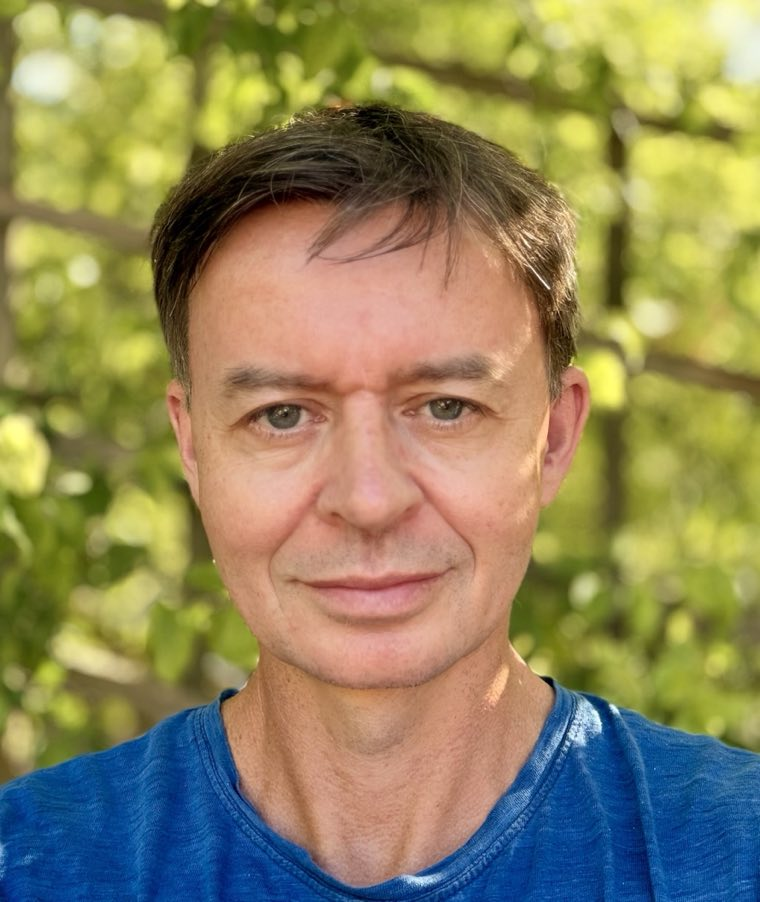
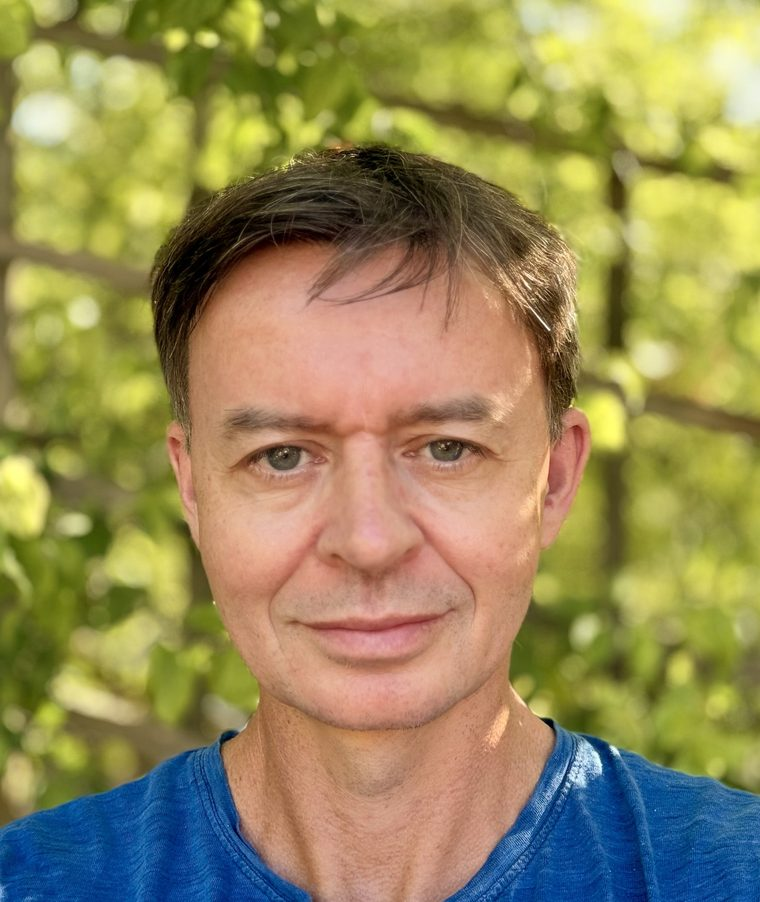
design(landing): the refreshed Shoots page, with its integrations put back
Paul's export of 22 August. The substance is the problem section: the four card
titles are tightened ("Hours lost before you find out you don't qualify" becomes
"Hours lost to dead ends", and so on), the fourth card's body now names
accelerator programmes and competitions rather than foundation grants, and the
section takes the sage background. A Blog nav item is added.

The export is a design-tool output, so it had dropped every integration and
every SEO fix that was applied on the way in last time. Restored rather than
shipped as-is:

- `<meta name="robots" content="noindex, nofollow">` was back. That alone would
  have delisted the site.
- canonical, og:url, og:image and twitter:image all pointed at
  shootsfunding.COM, which we do not own. A canonical naming someone else's
  domain tells Google the real page is elsewhere.
- 1.76 MB of inline base64 images, re-embedded. Extracted again: thirteen of the
  fourteen are byte-identical to files already in public/landing/, so they now
  reference those. The fourteenth is the founder photo, re-exported at slightly
  different compression, written over the existing filename. 1.9 MB down to
  78 KB.
- All three Sign in links had become href="#". Back to /auth/login.
- The waitlist form had become a Netlify form posting nowhere, with the consent
  copy, the privacy link and the status line deleted, and no submit script. The
  route treats the submission timestamp as the consent record, so that copy is
[…]

diff --git a/public/landing/index.html b/public/landing/index.html
@@ -315,6 +315,10 @@
   .cd-value:hover{text-decoration:underline;}
   .cd-sub{font-size:15px;color:#5f6b64;margin:0;}
   .contact-form{display:flex;flex-direction:column;gap:18px;}
+  /* The fields sit inside a real <form> so they can be submitted. That form is
+     the only flex child of .contact-form, so it has to carry the column layout
+     itself or the 18px gap between fields collapses. */
+  #ct-form{display:flex;flex-direction:column;gap:18px;}
   .contact-form label{font-family:'Space Grotesk',sans-serif;font-weight:500;font-size:15px;color:var(--deep);display:flex;flex-direction:column;gap:8px;}
   .contact-form input,.contact-form textarea{font-family:'Plus Jakarta Sans',sans-serif;font-size:15px;color:var(--deep);background:#fff;border:1px solid rgba(29,60,62,0.14);border-radius:12px;padding:14px 16px;width:100%;box-sizing:border-box;resize:vertical;}
   .contact-form input::placeholder,.contact-form textarea::placeholder{color:#9aa5a0;}
@@ -472,8 +476,8 @@
     <div class="wrap">
       <nav>
         <a class="brand" href="#top"><svg class="brand-svg" viewBox="0 0 24 24" fill="none" stroke-width="1.75" stroke-linecap="round" stroke-linejoin="round" aria-hidden="true"><path d="M12 10a6 6 0 0 0 -6 -6h-3v2a6 6 0 0 0 6 6h3" stroke="#1D3C3E"/><path d="M12 14a6 6 0 0 1 6 -6h3v1a6 6 0 0 1 -6 6h-3" stroke="#1D3C3E"/><path d="M12 20l0 -10" stroke="#1D3C3E"/></svg><span class="logo">shoots</span></a>
-        <div class="nav-center"><a href="#how">How it works</a><a href="#funding">Funding mix</a><a href="#pricing">Pricing</a><a href="#about" class="nav-opt">About</a><a href="#faq">FAQ</a></div>
-        <div class="nav-right"><a href="/auth/login" class="nav-signin" style="font-weight:600;">Sign in</a><a class="btn btn-primary nav-btn" href="#waitlist">Join the waitlist</a><button class="nav-toggle" id="navToggle" aria-expanded="false" aria-controls="mobileMenu" aria-label="Open menu"><i class="ti ti-menu-2" aria-hidden="true"></i></button></div>
+        <div class="nav-center"><a href="#how">How it works</a><a href="#funding">Funding mix</a><a href="#pricing">Pricing</a><a href="#about" class="nav-opt">About</a><a href="#faq">FAQ</a><a href="blog.html">Blog</a></div>
+        <div class="nav-right"><a href="/auth/login" class="nav-signin" style="font-weight:600;">Sign in</a><a class="btn btn-primary nav-btn" href="#pricing">Join the waitlist</a><button class="nav-toggle" id="navToggle" aria-expanded="false" aria-controls="mobileMenu" aria-label="Open menu"><i class="ti ti-menu-2" aria-hidden="true"></i></button></div>
       </nav>
       <div class="mobile-menu" id="mobileMenu" hidden>
         <a href="#how">How it works</a>
@@ -481,6 +485,7 @@
         <a href="#pricing">Pricing</a>
         <a href="#about">About</a>
         <a href="#faq">FAQ</a>
+        <a href="blog.html">Blog</a>
         <a href="#contact">Contact</a>
         <a href="/auth/login" class="mm-signin">Sign in</a>
       </div>
@@ -501,7 +506,7 @@
             <span><i class="ti ti-users-group" aria-hidden="true"></i>Built with UK charities, CICs and social enterprises</span>
           </p>
           <div class="hero-cta">
-            <a href="#waitlist" class="btn btn-primary">Join the waitlist</a>
+            <a href="#pricing" class="btn btn-primary">Join the waitlist</a>
             <a href="#how" class="hero-cta-link">See how it works <span class="arw" aria-hidden="true">&rarr;</span></a>
           </div>
           <p class="hero-reassure">Tell us about your organisation and see what fits, in about three minutes.</p>
@@ -568,23 +573,23 @@
       <div class="prob-grid">
         <div class="prob">
           <span class="prob-ic" style="background:rgba(214,117,88,0.14);"><i class="ti ti-hourglass-empty" style="color:var(--terra);"></i></span>
-          <h3>Hours lost before you find out you don&rsquo;t qualify</h3>
+          <h3>Hours lost to dead ends</h3>
           <p>You find a fund that fits, start shaping a bid, then discover your structure ruled you out from the start.</p>
         </div>
         <div class="prob">
           <span class="prob-ic" style="background:rgba(78,170,180,0.16);"><i class="ti ti-layout-grid-remove" style="color:#2f7d86;"></i></span>
-          <h3>Then you lose track of what you found</h3>
+          <h3>Then you lose track</h3>
           <p>The search ends in a spreadsheet, and the spreadsheet goes stale. Deadlines pass unnoticed, half-written applications drift, and nobody can say what is actually in progress.</p>
         </div>
         <div class="prob">
           <span class="prob-ic" style="background:rgba(235,206,120,0.28);"><i class="ti ti-building-bank" style="color:#BA7517;"></i></span>
-          <h3>Funding rarely fits one shape</h3>
+          <h3>Never shaped for you</h3>
           <p>Charities, CICs, social enterprises and community groups each face different eligibility, but most funding search flattens that, so you chase funds that were never open to you.</p>
         </div>
         <div class="prob turn">
           <span class="prob-ic"><i class="ti ti-bulb"></i></span>
-          <h3>The funding you didn&rsquo;t know to look for</h3>
-          <p>Grants aren&rsquo;t the whole picture. Social investment, foundation grants, fellowships and in-kind support rarely make it onto your radar.</p>
+          <h3>The funding you never see</h3>
+          <p>Grants aren&rsquo;t the whole picture. Social investment, accelerator programmes, competitions and in-kind support rarely make it onto your radar.</p>
         </div>
       </div>
     </div>
@@ -802,7 +807,7 @@
       <p class="eyb">Pricing for charities, CICs and community groups</p>
       <h2>Pricing coming soon</h2>
       <p class="lead" style="color:#5f6b64;max-width:56ch;">Simple plans priced for smaller organisations, whilst catering for bigger teams. Join the waitlist to see launch pricing first.</p>
-      <div class="waitlist-card" id="waitlist" style="background:var(--deep);border-radius:16px;padding:clamp(28px,4vw,44px);margin-top:28px;">
+      <div class="waitlist-card" style="background:var(--deep);border-radius:16px;padding:clamp(28px,4vw,44px);margin-top:28px;">
         <h3 style="color:var(--cream);margin:0 0 6px;">Join the waitlist</h3>
         <p style="color:rgba(246,241,231,.75);margin:0 0 18px;font-size:.95rem;">Be first in when we launch.</p>
         <form id="wl-form" method="POST" action="/api/waitlist" style="display:flex;gap:10px;flex-wrap:wrap;align-items:stretch;">
@@ -832,7 +837,7 @@
     <div class="wrap">
       <h2>Start with funding you can actually win.</h2>
       <p>Launching soon. Join the waitlist for first access.</p>
-      <a class="btn btn-primary" style="padding:16px 40px;font-size:17px;" href="#waitlist">Join the waitlist</a>
+      <a class="btn btn-primary" style="padding:16px 40px;font-size:17px;" href="#pricing">Join the waitlist</a>
     </div>
   </section>
 
@@ -854,9 +859,13 @@
           </div>
         </div>
         <div class="contact-form">
-          <p class="cd-label">Send an email</p>
-          <p class="cd-sub">Tell me what you need and I'll reply, usually within a couple of days.</p>
-          <a class="btn btn-primary contact-send" href="mailto:hello@shootsfunding.co.uk">hello@shootsfunding.co.uk</a>
+          <form id="ct-form" method="POST" action="/api/contact">
+            <label>Name<input id="ct-name" type="text" name="name" placeholder="Your name"></label>
+            <label>Email<input id="ct-email" type="email" name="email" required placeholder="you@organisation.org"></label>
+            <label>Message<textarea id="ct-message" rows="5" name="message" required placeholder="How can I help?"></textarea></label>
+            <button id="ct-submit" type="submit" class="btn btn-primary contact-send">Send message</button>
+          </form>
+          <p id="ct-status" role="status" aria-live="polite" style="margin:14px 0 0;font-size:.9rem;min-height:1.25em;color:#5f6b64;"></p>
         </div>
       </div>
     </div>
@@ -872,7 +881,7 @@
           <p style="font-size:16px;color:#8fa39c;">hello@shootsfunding.co.uk</p>
         </div>
         <div class="foot-cols">
-          <div><h4>Product</h4><p><a href="#how">How it works</a></p><p><a href="#funding">Funding mix</a></p><p><a href="#pricing">Pricing</a></p></div>
+          <div><h4>Product</h4><p><a href="#how">How it works</a></p><p><a href="#funding">Funding mix</a></p><p><a href="#pricing">Pricing</a></p><p><a href="blog.html">Blog</a></p></div>
           <div><h4>Company</h4><p><a href="#about">About</a></p><p><a href="#faq">FAQ</a></p><p><a href="#contact">Contact</a></p><p><a href="/auth/login">Sign in</a></p></div>
         </div>
       </div>
@@ -1002,7 +1011,6 @@
     start();
   })();
   </script>
-
 <script>
   // Waitlist submit. Posts JSON to /api/waitlist, which stores the address and
   // its timestamp as the consent record. Same-origin: this document is served
@@ -1068,5 +1076,78 @@
     });
   })();
   </script>
+
+<script>
+  // Contact submit. Posts JSON to /api/contact, which stores the message and
+  // emails Paul. Mirrors the waitlist handler above deliberately: same shape,
+  // same failure handling, so there is one pattern on this page rather than two.
+  //
+  // The route is rate limited to 5 an hour per IP and fails CLOSED, so it can
+  // answer 429 or 503. Those are told apart here rather than collapsed into
+  // "something went wrong", because "try again" is the wrong advice for both:
+  // one means wait, the other means use the email address above.
+  (function(){
+    var form = document.getElementById('ct-form');
+    if(!form) return;
+    var name    = document.getElementById('ct-name');
+    var email   = document.getElementById('ct-email');
+    var message = document.getElementById('ct-message');
+    var button  = document.getElementById('ct-submit');
+    var status  = document.getElementById('ct-status');
+    var ERR = '#B14A2C', OK = '#3f6b52';
+    var done = false;
+
+    function say(text, isError){
+      status.textContent = text;
+      status.style.color = isError ? ERR : OK;
+    }
+
+    form.addEventListener('submit', function(event){
+      event.preventDefault();
+      if(done) return;
+
+      var body = {
+        name:    (name.value || '').trim(),
+        email:   (email.value || '').trim(),
+        message: (message.value || '').trim()
+      };
+      if(!body.email){ say('Please enter your email address.', true); email.focus(); return; }
+      if(body.message.length < 5){ say('Please tell me a little more.', true); message.focus(); return; }
+
+      button.disabled = true;
+      var original = button.textContent;
+      button.textContent = 'Sending...';
+      say('', false);
+
+      fetch('/api/contact', {
+        method: 'POST',
+        headers: { 'Content-Type': 'application/json' },
+        body: JSON.stringify(body)
+      }).then(function(res){
+        return res.json().then(function(data){ return { status: res.status, ok: res.ok, data: data }; });
+      }).then(function(result){
+        if(result.ok){
+          done = true;
+          form.hidden = true;
+          say('Thanks, that has reached me. I will reply within a couple of days.', false);
+          return;
+        }
+        button.disabled = false;
+        button.textContent = original;
+        if(result.status === 429){
+          say('That is a few too many messages. Please try again later, or email hello@shootsfunding.co.uk.', true);
+        } else if(result.status === 503){
+          say('I could not accept that just now. Please email hello@shootsfunding.co.uk instead.', true);
+        } else {
+          say((result.data && result.data.error) || 'Something went wrong. Please email hello@shootsfunding.co.uk.', true);
+        }
+      }).catch(function(){
+        button.disabled = false;
+        button.textContent = original;
+        say('Something went wrong. Please email hello@shootsfunding.co.uk.', true);
+      });
+    });
+  })();
+</script>
 </body>
 </html>
